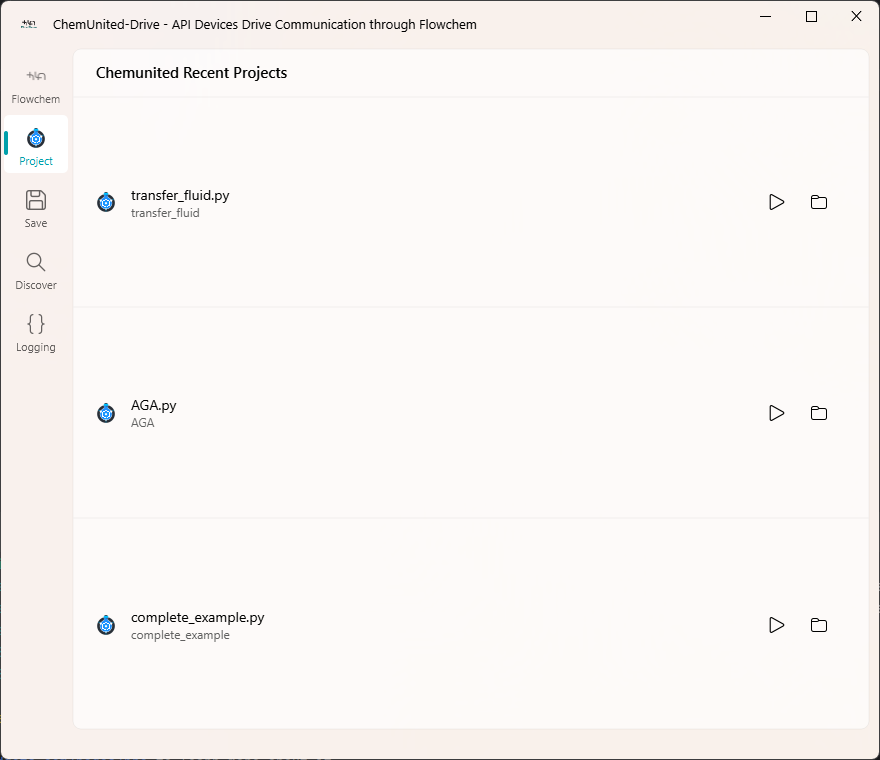
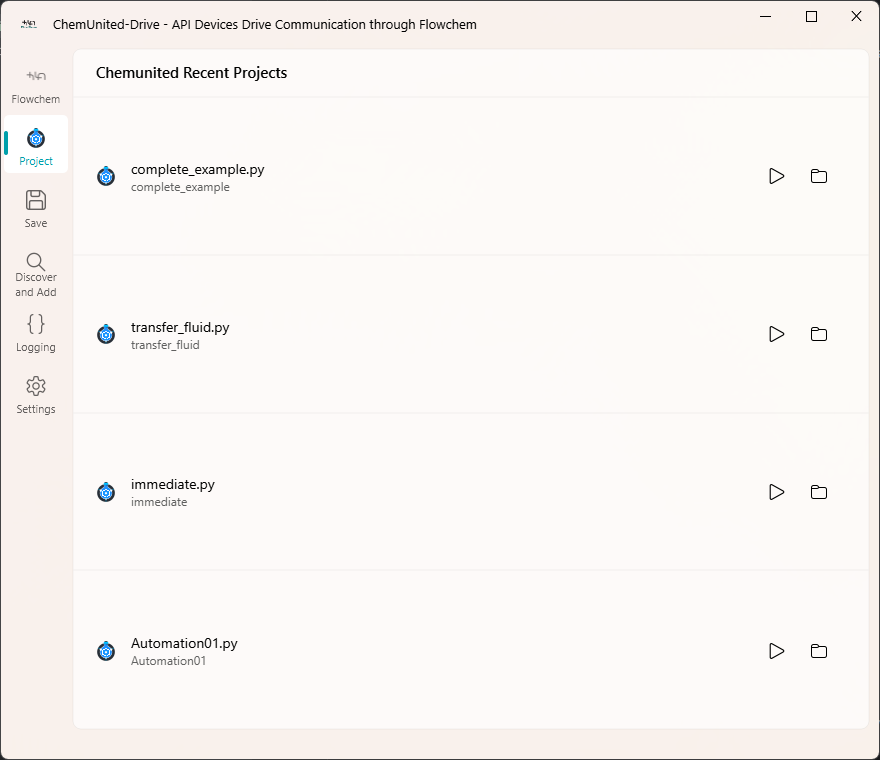
Tutorial connectivity

diff --git a/docs/connectivity/chemunited_drive.md b/docs/connectivity/chemunited_drive.md
@@ -25,12 +25,14 @@ It bridges the gap between device setup and automation, allowing you to:
 
 The main window provides four tabs for navigation:
 
-| Tab          | Purpose                                        |
-| ------------ | ---------------------------------------------- |
-| **FlowChem** | View and edit the configuration file.          |
-| **Project**  | Manage and open existing project folders.      |
-| **Discover** | Automatically find connected FlowChem devices. |
-| **Logging**  | View logs and FlowChem process messages.       |
+| Tab                  | Purpose                                                   |
+|----------------------|-----------------------------------------------------------|
+| **FlowChem**         | View and edit the configuration file.                     |
+| **Project**          | Manage and open existing project folders.                 |
+| **Discover and Add** | Automatically find connected FlowChem devices and add it. |
+| **Logging**          | View logs and FlowChem process messages.                  |
+| **Settings**         | Settings of the application.                              |
+
 
 ### 2. Projects View
 
@@ -57,6 +59,10 @@ Use:
 * *Stop* → to terminate it.
 
 A progress bar shows the initialization status, and the application provides live feedback and clickable server links once the process is running.
+
+In the device added the user can inspect the device presented in the config file and test its connectivity individually. 
+
+![img.png](../_static/run011.png)
 
 ### 4. Run and Monitor FlowChem
 
@@ -90,7 +96,7 @@ or, if installed as a package:
 chemunited-drive
 ```
 
-## 🧰 Device Discovery
+## 🧰 Device Discovery or manually added
 
 ![ChemUnited-Drive](../_static/devices.png)
 
@@ -101,6 +107,9 @@ The Discover tab uses built-in FlowChem finders to detect connected devices:
 * Ethernet devices (via broadcast search using user-defined IP).
 
 Each discovered device automatically appends its configuration block to the current TOML file.
+
+The user also has the option to automatically add the device configuration block.
+This tool is useful for adding devices for which the finder feature is unavailable.
 
 ## 🗂 Temporary Files
 
@@ -125,3 +134,132 @@ The application logs:
 * Full traceback details in case of exceptions.
 
 Logs appear both in the Logging tab and in the console (via loguru).
+
+## ⚙ Settings
+
+ChemUnited-Drive can run in Virtual Mode, which replaces the standard flowchem backend with flowchem-virtual.
+
+### Why this is useful
+
+* Allows you to test the full workflow **without physical hardware**
+
+* Useful for training, demos, debugging, or developing protocols when devices are not available
+
+* Helps validate that your configuration file is correct before connecting real instruments
+
+### Where to enable it
+
+* Settings → Virtual Mode
+
+## 🧑🏫 Tutorial
+
+This tutorial demonstrates the main features of ChemUnited-Drive using a simple example configuration.
+We will configure two devices from **HarvardApparatus** and **Knauer**:
+
+* Elite11 syringe pump
+
+* Distribution Valve
+
+> **Goal:** Create a configuration file that launches a FlowChem server exposing these devices, validate connectivity, and start the server.
+
+---
+
+### Step 1 — Start ChemUnited-Drive
+
+After creating a project in ChemUnited Orchestrator, open ChemUnited-Drive by running:
+
+```bash
+chemunited-drive
+```
+
+In the main window, select the project configuration workflow by clicking:
+<img src="../_static/icons/play_black.svg" width="16" style="vertical-align:middle; margin-right:4px;"> -
+`Open Project Configuration File`.
+
+This option helps you create or edit the configuration file associated with your project.
+
+<div class="info-block"> <strong>💡 Note</strong><br> You can use ChemUnited-Drive even without a 
+ChemUnited Orchestrator project. The project integration is provided only for convenience
+(it helps locate and manage configuration files).
+</div>
+
+---
+
+### Step 2 — Add device blocks (discover or manual)
+
+After opening the configuration editor, you can add devices in two ways:
+
+* **Discover devices** (recommended when hardware is connected)
+
+* **Add configuration blocks manually** (useful for Virtual Mode or when preparing the file in advance)
+
+In this tutorial, we do not have real hardware connected, so we will add blocks manually:
+
+<img src="../_static/connectivity01.gif" width="900px">
+
+---
+
+### Step 3 — Configure device parameters
+
+Once the device block is added, configure the connection and device parameters 
+(e.g., address, port, serial settings, channel IDs, etc.).
+
+If you are unsure what each parameter means, refer to FlowChem’s device documentation:
+[Supported devices and configuration reference](https://flowchem.readthedocs.io/en/latest/user-guides/reference/devices/supported_devices.html).
+
+<img src="../_static/connectivity02.gif" width="900px">
+
+At the end of this step, ChemUnited-Drive generates a **TOML configuration file**.
+
+Example structure (illustrative):
+
+```toml
+[device.MyElite11]
+type = "Elite11"
+port = "COM4"
+syringe_diameter = "4.608 mm"
+syringe_volume = "1 ml"
+address = 1
+force = 30
+
+[device.MyKnauer]
+type = "KnauerValve"
+ip_address = "141.14.234.67"
+valve_type = "16"
+```
+
+---
+
+### Step 4 — Run device diagnostics
+
+Before launching the server, run Diagnostics to verify each device configuration independently.
+This step is important because it helps you detect connection problems early (wrong address, missing device, incorrect parameters, etc.).
+
+<div class="warning-block"> <strong>💡 Information</strong><br> In this tutorial we use <strong>Virtual Mode</strong> 
+for demonstration, since no real devices are connected. Enable it in <code>Settings → Virtual Mode</code>. 
+</div> 
+
+<img src="../_static/connectivity03.gif" width="900px">
+
+---
+
+### Step 5 — Launch the FlowChem server
+
+Once diagnostics succeed, launch the server.
+ChemUnited-Drive will start the FlowChem service and expose the configured devices through an API.
+
+You can then:
+
+open the server link directly (if provided), or
+
+inspect the logs to confirm the server is running and devices were loaded correctly.
+
+<img src="../_static/connectivity04.gif" width="900px">
+
+---
+
+### What you can do next
+
+After the server is running, return to ChemUnited Orchestrator and associate the online devices with the 
+abstract components in your workflow graph (drag-and-drop association). Once connected, your protocol can 
+send commands to the devices via API.
